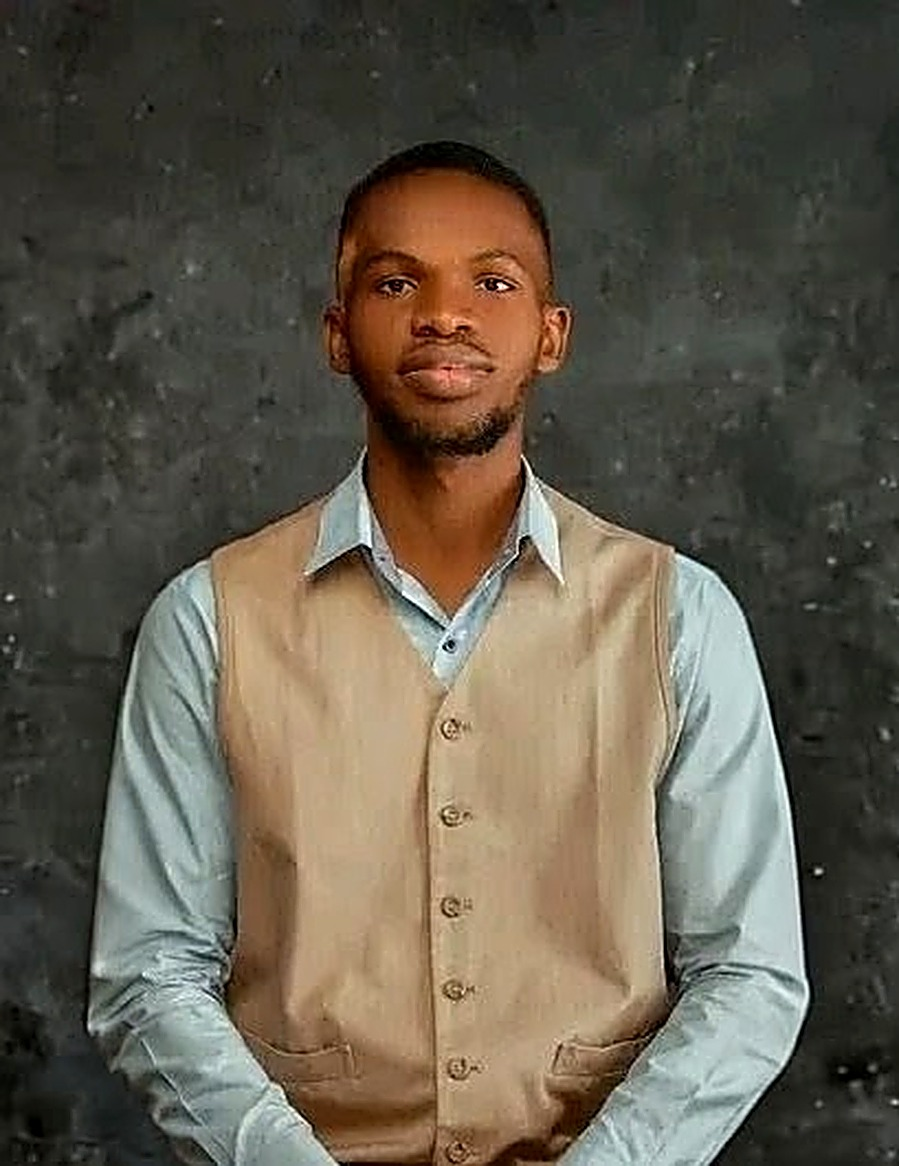
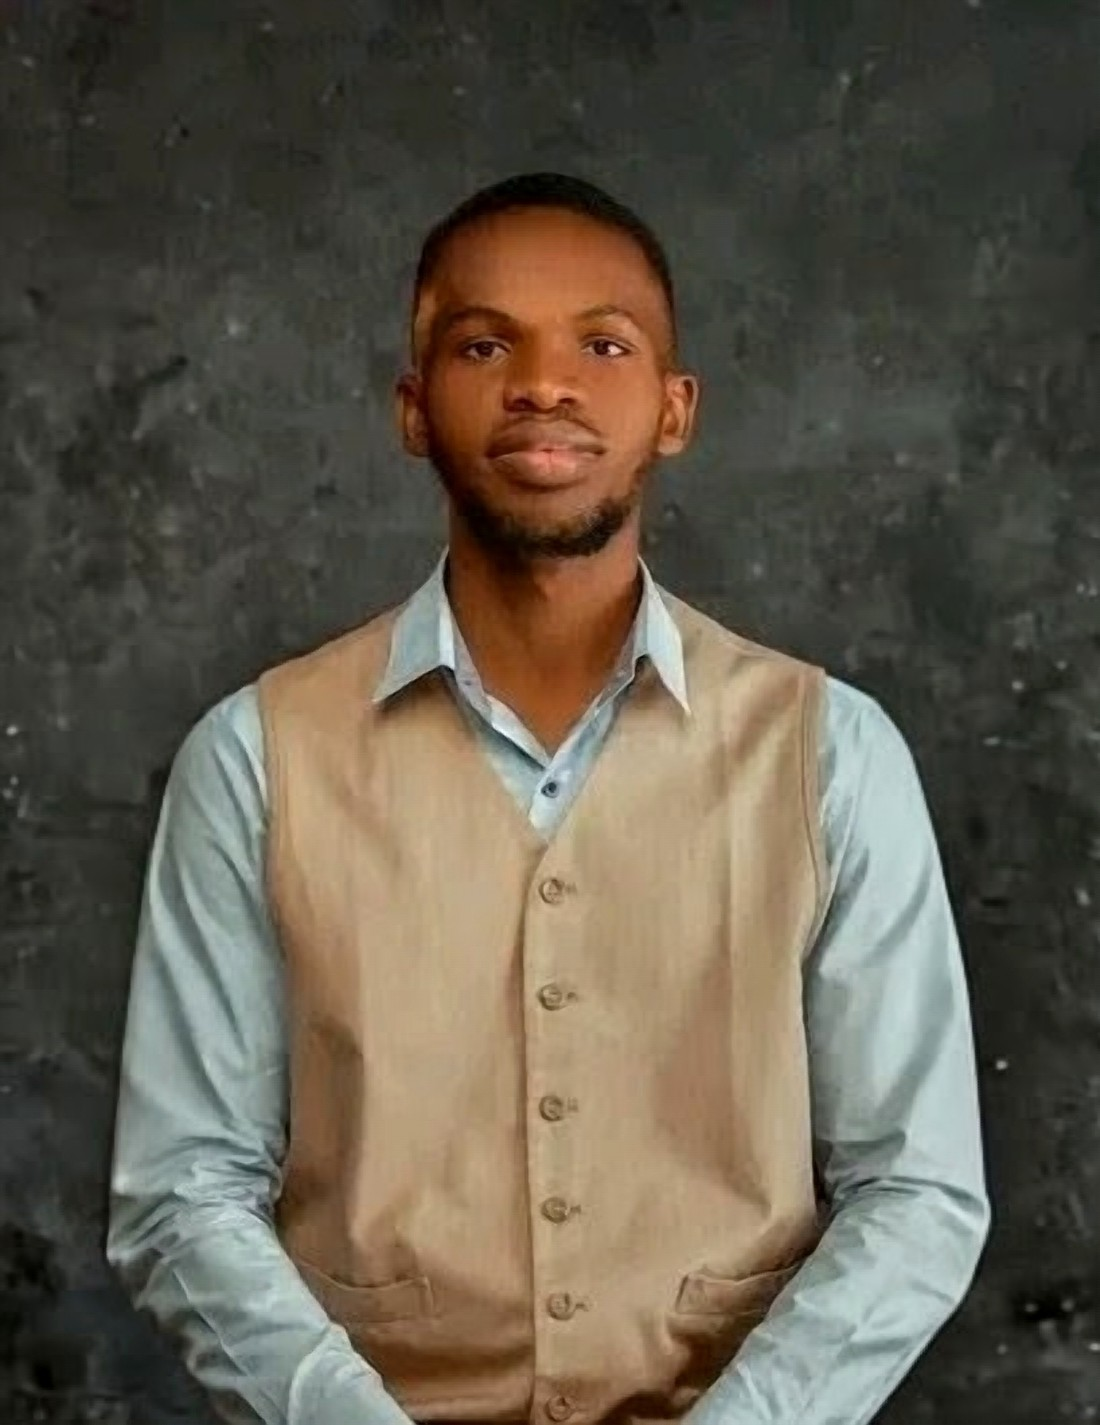
Re-upscale the portrait with real super-resolution instead of a plain resize
The first pass used a LANCZOS resize + sharpen filter on the 409x530
source, which can't recover detail that was never captured, so it read
soft once stretched to hero size. Re-ran it through FSRCNN (a trained
4x super-resolution model) instead, then downsampled the result to a
sensible 1100px web size. Noticeably sharper fabric and background
texture in the actual hero layout.

diff --git a/index.html b/index.html
@@ -79,7 +79,7 @@
       </div>
       <div class="hero-photo-wrap">
         <div class="hero-photo">
-          <img src="assets/wesley.jpg" alt="Portrait of Wesley Okoye" width="899" height="1166" />
+          <img src="assets/wesley.jpg" alt="Portrait of Wesley Okoye" width="1100" height="1425" />
         </div>
         <span class="hero-badge">Open to work</span>
       </div>

diff --git a/styles.css b/styles.css
@@ -272,7 +272,7 @@ a { color: inherit; text-decoration: none; }
   border: 1px solid var(--surface-border);
   border-radius: var(--radius);
   overflow: hidden;
-  aspect-ratio: 899 / 1166;
+  aspect-ratio: 1100 / 1425;
   opacity: 0;
   transform: translateY(18px);
   animation: hero-in 0.7s cubic-bezier(.22,1,.36,1) forwards;
